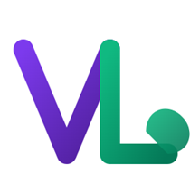
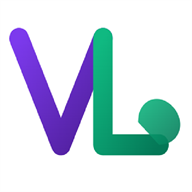
Enriquece payload Mercado Pago e atualiza icones

diff --git a/app/api/mercadopago/preference/route.ts b/app/api/mercadopago/preference/route.ts
@@ -5,8 +5,11 @@ import MercadoPagoConfig, { Preference } from 'mercadopago';
 interface ItemCheckout {
   id: number;
   nome: string;
+  descricao?: string;
+  imagem_url?: string;
   preco: number;
   quantidade: number;
+  subtotal?: number;
 }
 
 export const runtime = 'nodejs';
@@ -58,13 +61,103 @@ function dividirNome(nome?: string) {
   };
 }
 
+function somenteDigitos(valor?: string) {
+  return String(valor ?? '').replace(/\D/g, '');
+}
+
 function telefoneMercadoPago(telefone?: string) {
-  const digitos = String(telefone ?? '').replace(/\D/g, '');
+  const digitos = somenteDigitos(telefone);
   if (!digitos) return undefined;
   const semPais = digitos.startsWith('55') ? digitos.slice(2) : digitos;
   return {
     area_code: semPais.slice(0, 2),
     number: semPais.slice(2),
+  };
+}
+
+function montarItensMercadoPago(itens: ItemCheckout[], pedido: any) {
+  const subtotalItens = itens.reduce((total, item) => {
+    const subtotal = Number(item.subtotal ?? Number(item.preco || 0) * Number(item.quantidade || 0));
+    return total + subtotal;
+  }, 0);
+  const valorFrete = Number(pedido.valor_frete || 0);
+  const totalPedido = Number(pedido.valor_total || 0);
+  const totalProdutosCobrado = Math.max(totalPedido - valorFrete, 0);
+
+  if (subtotalItens <= 0 || totalPedido <= 0) {
+    return [{
+      id: String(pedido.id),
+      title: `Pedido Viva Leve #${String(pedido.id).slice(0, 8).toUpperCase()}`,
+      description: itens.map(item => `${item.quantidade}x ${item.nome}`).join(', ').slice(0, 250),
+      quantity: 1,
+      currency_id: 'BRL',
+      unit_price: Number(totalPedido.toFixed(2)),
+      category_id: 'food',
+    }];
+  }
+
+  const alvoProdutosCentavos = Math.round(totalProdutosCobrado * 100);
+  let centavosDistribuidos = 0;
+  const itensPreferencia = itens.map((item, index) => {
+    const subtotal = Number(item.subtotal ?? Number(item.preco || 0) * Number(item.quantidade || 0));
+    const centavosLinha = index === itens.length - 1
+      ? Math.max(alvoProdutosCentavos - centavosDistribuidos, 0)
+      : Math.max(Math.round((subtotal / subtotalItens) * alvoProdutosCentavos), 0);
+    centavosDistribuidos += centavosLinha;
+
+    return {
+      id: `produto_${item.id}`,
+      title: `${item.quantidade}x ${item.nome}`.slice(0, 120),
+      description: String(item.descricao || item.nome || 'Produto Viva Leve').slice(0, 250),
+      picture_url: item.imagem_url || undefined,
+      quantity: 1,
+      currency_id: 'BRL',
+      unit_price: Number((centavosLinha / 100).toFixed(2)),
+      category_id: 'food',
+    };
+  }).filter(item => item.unit_price > 0);
+
+  if (valorFrete > 0) {
+    itensPreferencia.push({
+      id: `frete_${pedido.id}`,
+      title: 'Taxa de entrega Viva Leve',
+      description: String(pedido.endereco_entrega || 'Entrega Viva Leve').slice(0, 250),
+      picture_url: undefined,
+      quantity: 1,
+      currency_id: 'BRL',
+      unit_price: Number(valorFrete.toFixed(2)),
+      category_id: 'shipping',
+    });
+  }
+
+  return itensPreferencia;
+}
+
+function additionalInfoPedido(itens: ItemCheckout[], pedido: any, payer: any) {
+  const resumoItens = itens
+    .map(item => `${item.quantidade}x ${item.nome} (${Number(item.preco || 0).toFixed(2)})`)
+    .join('; ');
+
+  return [
+    `Pedido Viva Leve #${pedido.id}`,
+    `Itens: ${resumoItens}`,
+    `Subtotal: ${Number(pedido.subtotal_produtos || 0).toFixed(2)}`,
+    `Desconto: ${Number(pedido.desconto_valor || 0).toFixed(2)}`,
+    `Frete: ${Number(pedido.valor_frete || 0).toFixed(2)}`,
+    `Entrega: ${payer?.endereco || pedido.endereco_entrega || ''}`,
+  ].join(' | ').slice(0, 600);
+}
+
+function enderecoMercadoPago(endereco?: string) {
+  const partes = String(endereco ?? '').split(',').map(parte => parte.trim()).filter(Boolean);
+  if (partes.length === 0) return undefined;
+
+  return {
+    street_name: partes[0],
+    street_number: partes[1],
+    city_name: partes[3],
+    state_name: 'DF/GO',
+    country_name: 'Brasil',
   };
 }
 
@@ -89,7 +182,7 @@ export async function POST(request: NextRequest) {
     const { pedidoId, itens, payer } = await request.json() as {
       pedidoId?: string;
       itens?: ItemCheckout[];
-      payer?: { nome?: string; email?: string; telefone?: string };
+      payer?: { nome?: string; email?: string; telefone?: string; cpf?: string; endereco?: string; regiao?: string };
     };
 
     if (!pedidoId || !Array.isArray(itens) || itens.length === 0) {
@@ -103,7 +196,7 @@ export async function POST(request: NextRequest) {
 
     const { data: pedido, error: pedidoError } = await supabase
       .from('pedidos')
-      .select('id, valor_total, status')
+      .select('id, valor_total, status, subtotal_produtos, valor_frete, desconto_valor, endereco_entrega')
       .eq('id', pedidoId)
       .maybeSingle();
 
@@ -121,31 +214,45 @@ export async function POST(request: NextRequest) {
       failure: `${baseUrl}/pagamento/falha`,
     };
     const nomePagador = dividirNome(payer?.nome);
+    const cpfPagador = somenteDigitos(payer?.cpf);
+    const telefonePagador = telefoneMercadoPago(payer?.telefone);
+    const enderecoPagador = enderecoMercadoPago(payer?.endereco || pedido.endereco_entrega);
+    const itensPreferencia = montarItensMercadoPago(itens, pedido);
 
     const body = {
       external_reference: pedidoId,
       notification_url: `${baseUrl}/api/mercadopago/webhook`,
-      auto_return: 'approved',
+      auto_return: 'all',
       back_urls: backUrls,
+      additional_info: additionalInfoPedido(itens, pedido, payer),
       payer: {
         name: nomePagador.name,
         surname: nomePagador.surname,
         email: payer?.email,
-        phone: telefoneMercadoPago(payer?.telefone),
+        phone: telefonePagador,
+        identification: cpfPagador.length === 11 ? {
+          type: 'CPF',
+          number: cpfPagador,
+        } : undefined,
+        address: enderecoPagador ? {
+          street_name: enderecoPagador.street_name,
+          street_number: enderecoPagador.street_number,
+        } : undefined,
       },
       payment_methods: {
         excluded_payment_types: [],
       },
-      items: [{
-        id: String(pedido.id),
-        title: `Pedido Viva Leve #${String(pedido.id).slice(0, 8).toUpperCase()}`,
-        description: itens.map(item => `${item.quantidade}x ${item.nome}`).join(', ').slice(0, 250),
-        quantity: 1,
-        currency_id: 'BRL',
-        unit_price: Number(pedido.valor_total),
-      }],
+      items: itensPreferencia,
+      shipments: enderecoPagador ? {
+        mode: 'not_specified',
+        cost: Number(pedido.valor_frete || 0),
+        free_shipping: Number(pedido.valor_frete || 0) === 0,
+        receiver_address: enderecoPagador,
+      } : undefined,
+      statement_descriptor: 'VIVA LEVE',
       metadata: {
         pedido_id: pedidoId,
+        cliente_regiao: payer?.regiao,
       },
     };
 

diff --git a/app/page.tsx b/app/page.tsx
@@ -145,6 +145,10 @@ export default function LojaCliente() {
   const [nome, setNome] = useState('');
   const [telefone, setTelefone] = useState('');
   const [endereco, setEndereco] = useState('');
+  const [usarDadosCadastroPagador, setUsarDadosCadastroPagador] = useState(true);
+  const [nomePagador, setNomePagador] = useState('');
+  const [telefonePagador, setTelefonePagador] = useState('');
+  const [cpfPagador, setCpfPagador] = useState('');
   const [enviando, setEnviando] = useState(false);
   const [metodoPagamento, setMetodoPagamento] = useState<'checkout' | 'pix'>('checkout');
   const [pixGerado, setPixGerado] = useState<{ qrCode: string; qrCodeBase64?: string; ticketUrl?: string } | null>(null);
@@ -383,6 +387,8 @@ export default function LojaCliente() {
     setNome(nomePerfil);
     setTelefone(telefonePerfil);
     setEndereco(enderecoPerfil);
+    if (!nomePagador) setNomePagador(nomePerfil);
+    if (!telefonePagador) setTelefonePagador(telefonePerfil);
 
     return {
       nome: nomePerfil,
@@ -481,6 +487,16 @@ export default function LojaCliente() {
       }
 
       const cadastroPedido = await validarCadastroPedido(user.id);
+      const cpfPagadorDigitos = somenteDigitos(cpfPagador);
+      if (metodoPagamento === 'checkout' && cpfPagadorDigitos.length !== 11) {
+        adicionarToast('Informe o CPF do pagador com 11 digitos para pagamento com cartao.', 'erro');
+        throw new Error('CPF do pagador invalido.');
+      }
+
+      const dadosPagador = {
+        nome: usarDadosCadastroPagador ? cadastroPedido.nome : (nomePagador || cadastroPedido.nome),
+        telefone: usarDadosCadastroPagador ? cadastroPedido.telefone : (telefonePagador || cadastroPedido.telefone),
+      };
       const estoqueAtualizado = await revalidarEstoqueCarrinho();
       const produtosParaPedido = estoqueAtualizado.length > 0 ? estoqueAtualizado : produtos;
 
@@ -489,6 +505,8 @@ export default function LojaCliente() {
         return {
           id: Number(id),
           nome: produto?.nome ?? 'Produto',
+          descricao: produto?.descricao ?? '',
+          imagem_url: produto?.imagem_url ?? '',
           preco: produto?.preco ?? 0,
           quantidade: qtd,
           subtotal: (produto?.preco ?? 0) * qtd,
@@ -533,9 +551,12 @@ export default function LojaCliente() {
           pedidoId: pedidoCriado?.id,
           itens: listaItens,
           payer: {
-            nome: cadastroPedido.nome,
-            telefone: cadastroPedido.telefone,
+            nome: dadosPagador.nome,
+            telefone: dadosPagador.telefone,
             email: user.email,
+            cpf: cpfPagadorDigitos || undefined,
+            endereco: cadastroPedido.endereco,
+            regiao: cadastroPedido.regiao,
           },
         }),
       });
@@ -835,6 +856,46 @@ export default function LojaCliente() {
                       </button>
                     </div>
                   </div>
+
+                  {metodoPagamento === 'checkout' && (
+                    <div className="rounded-2xl border border-purple-100 bg-purple-50 p-3">
+                      <label className="flex items-center gap-2 text-xs font-bold text-viva-roxo">
+                        <input
+                          type="checkbox"
+                          checked={usarDadosCadastroPagador}
+                          onChange={e => setUsarDadosCadastroPagador(e.target.checked)}
+                          className="h-4 w-4 rounded border-purple-200 text-viva-roxo"
+                        />
+                        Usar dados do cadastro para o pagador
+                      </label>
+
+                      {!usarDadosCadastroPagador && (
+                        <div className="mt-3 grid gap-3 sm:grid-cols-2">
+                          <div>
+                            <label className="mb-1 block text-xs font-bold text-gray-600">Nome do pagador</label>
+                            <input type="text" value={nomePagador} onChange={e => setNomePagador(e.target.value)} className="w-full rounded-xl border border-gray-200 bg-white p-2.5 text-sm text-gray-900" />
+                          </div>
+                          <div>
+                            <label className="mb-1 block text-xs font-bold text-gray-600">WhatsApp do pagador</label>
+                            <input type="tel" value={telefonePagador} onChange={e => setTelefonePagador(e.target.value)} className="w-full rounded-xl border border-gray-200 bg-white p-2.5 text-sm text-gray-900" />
+                          </div>
+                        </div>
+                      )}
+
+                      <div className="mt-3">
+                        <label className="mb-1 block text-xs font-bold text-gray-600">CPF do pagador *</label>
+                        <input
+                          required={metodoPagamento === 'checkout'}
+                          inputMode="numeric"
+                          maxLength={14}
+                          value={cpfPagador}
+                          onChange={e => setCpfPagador(e.target.value)}
+                          placeholder="Somente numeros"
+                          className="w-full rounded-xl border border-gray-200 bg-white p-2.5 text-sm text-gray-900"
+                        />
+                      </div>
+                    </div>
+                  )}
 
                   <button type="submit" disabled={enviando} className="w-full rounded-xl bg-viva-roxo py-3.5 text-center font-bold text-white shadow-lg transition-all active:scale-[0.99] disabled:opacity-60">
                     {enviando ? 'Processando...' : 'Confirmar Pedido'}

diff --git a/app/api/mercadopago/pix/route.ts b/app/api/mercadopago/pix/route.ts
@@ -52,7 +52,7 @@ export async function POST(request: NextRequest) {
 
     const { pedidoId, payer } = await request.json() as {
       pedidoId?: string;
-      payer?: { nome?: string; email?: string; telefone?: string };
+      payer?: { nome?: string; email?: string; telefone?: string; cpf?: string };
     };
 
     if (!pedidoId || !payer?.email) {
@@ -77,6 +77,7 @@ export async function POST(request: NextRequest) {
 
     const client = new MercadoPagoConfig({ accessToken });
     const payment = new Payment(client);
+    const cpfPagador = String(payer.cpf ?? '').replace(/\D/g, '');
     const resposta: any = await payment.create({
       body: {
         transaction_amount: Number(pedido.valor_total),
@@ -88,6 +89,10 @@ export async function POST(request: NextRequest) {
           email: payer.email,
           first_name: payer.nome,
           phone: payer.telefone ? { number: payer.telefone.replace(/\D/g, '') } : undefined,
+          identification: cpfPagador.length === 11 ? {
+            type: 'CPF',
+            number: cpfPagador,
+          } : undefined,
         },
         metadata: {
           pedido_id: pedido.id,
